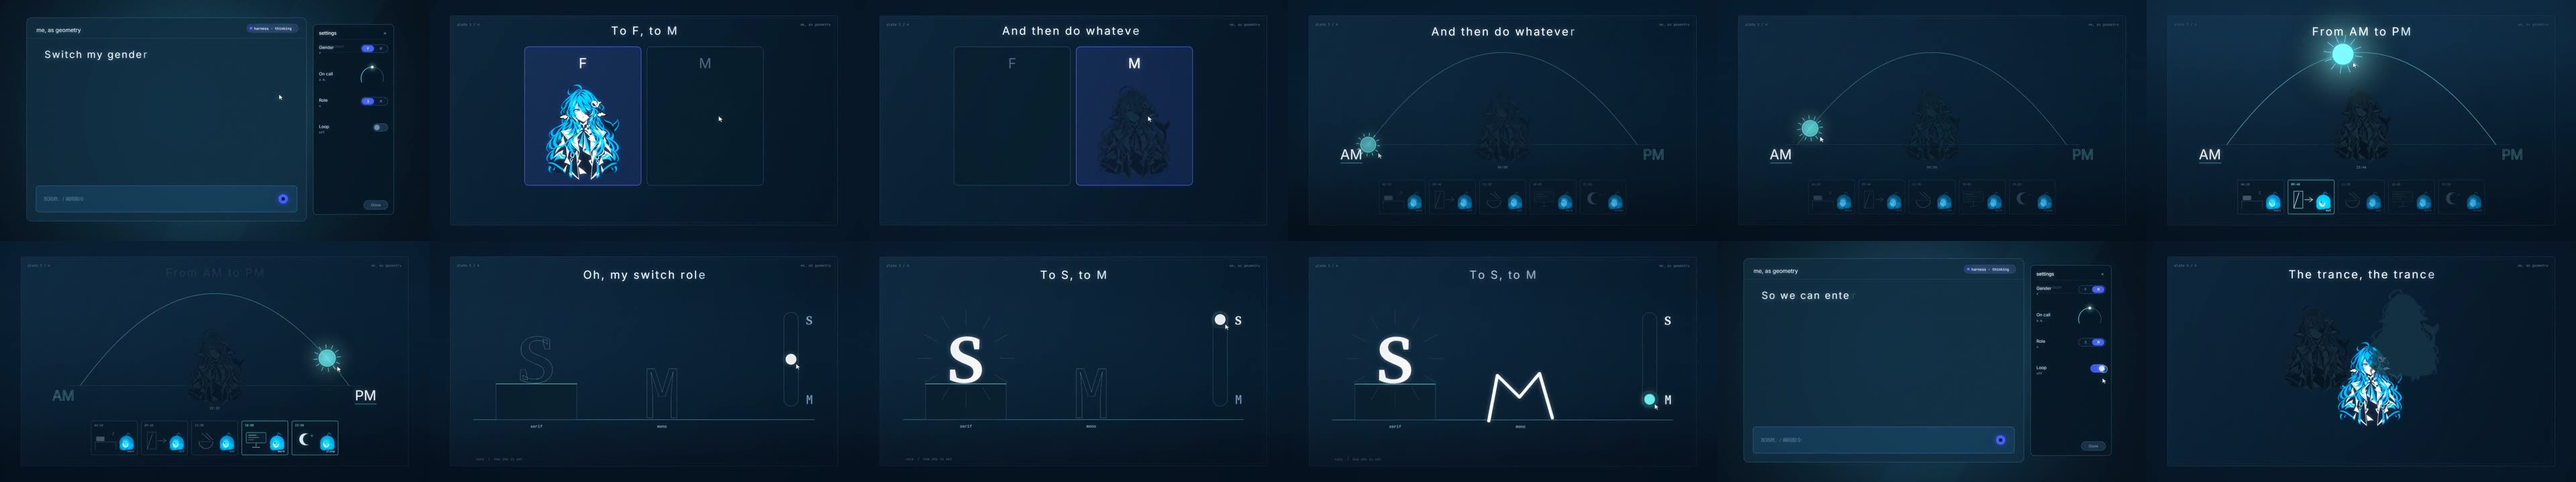
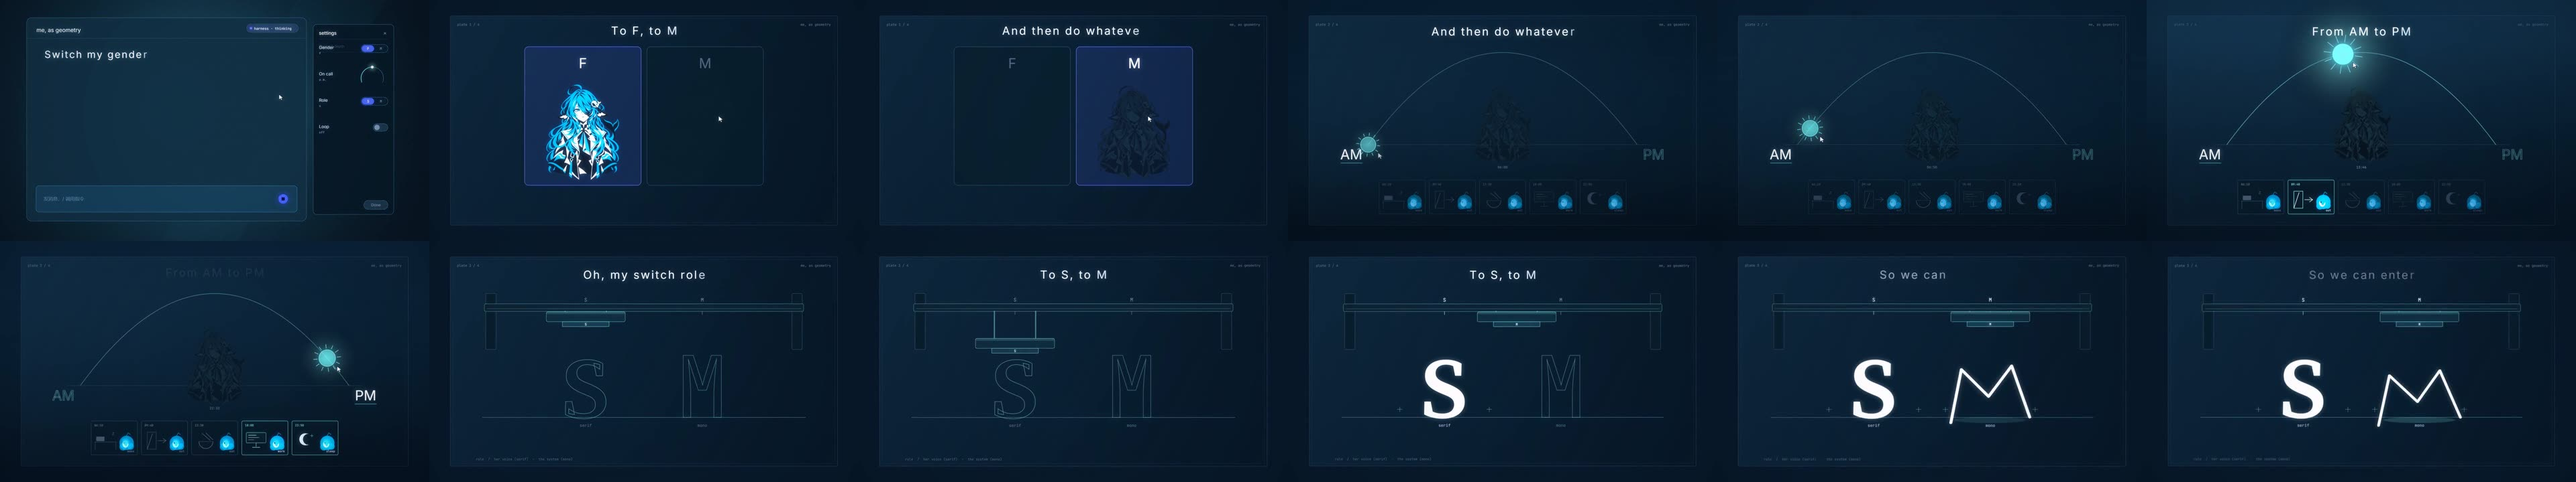
Section 7, Role: a press instead of a shelf
The first pass at this plate took the reference's own tabletop staging -- a heavy
letter on a plinth, a light letter on the floor, a vertical track between them -- and
dressed it in our inks. The user's note was the right one: the idea is right and the
picture is somebody else's. It also says something we do not mean. One letter up and
one letter down is a ranking; a Role row is a choice.

So both sorts now stand on ONE baseline at the SAME size, and what moves is the
machine above them: a portal frame, a beam with two stops, and a platen carrying the
slug that travels from stop to stop and comes down on the letter being chosen. The
travel is the switch, the descent is the setting.

- S is pressed on the line "To S" and printed heavy; M is pressed on "to M" and
  printed thin, and then it sinks into the paper it was printed on (a smear under
  it), which is the same joke as before without borrowing the reference's ground.
- Both hits keep the jolt, an ink ring and four registration crosses; the printed
  sort's outline fades out as the ink comes in, so the plate never shows two Of the
  same letter.
- Labels under the baseline say serif / mono, and the margin carries one line:
  "role / her voice (serif) - the system (mono)". The reference never had to say
  what S/M meant; we do, because ours has to be readable without the pun.

No plinth, no height difference, no vertical track: three hard edges against the
reference's form.

diff --git a/newProj_v1017/shots/s07_identity.js b/newProj_v1017/shots/s07_identity.js
@@ -429,160 +429,185 @@ function pre2Day(ctx, t, s) {
 }
 
 // ---------------------------------------------------------------------------
-// pre2-role — S and M are type roles, not letters with an attitude.
+// pre2-role — S and M are type roles, and the plate is a press, not a shelf.
 // ---------------------------------------------------------------------------
-// The reference's Role row reads "S / M" in the drawer, which looks like something
-// else entirely; its plate tells the truth -- a heavy letter standing on a plinth
-// and a light letter on the floor. In this film the same distinction already exists
-// and is used everywhere: serif is her voice, mono is the system's. So the plate
-// prints one specimen of each, labels them, and the switch chooses which voice she
-// is set in. The light one still goes limp when it is chosen, because that is the
-// joke and it costs one function.
+// The reference settles this row with a sculpture: a heavy letter on a plinth, a
+// light letter on the floor, a vertical track between them. That reads as a ranking
+// -- one voice up, one down -- and it is somebody else's picture of the idea. This
+// film already says what the row means everywhere else: serif is her voice, mono is
+// the system's. So both sorts stand on ONE line at the SAME size (a choice, not a
+// rank), and what moves is the press above them: a portal frame, a platen that
+// travels from stop to stop, and a slug that comes down on the letter being chosen.
+// The beat is unchanged -- S on "To S", M on "to M" -- and the light one still goes
+// soft, but it now sinks into the paper it was printed on instead of lying on a
+// floor.
 function pre2Role(ctx, t, s) {
   const sCue = Math.max(lineStart(62) + 0.4, s.at + 0.45);
   const mCue = sCue + 0.8;
 
   const hit = (cue) => (t >= cue ? Math.exp(-(t - cue) * 8.5) : 0);
-  const jolt = Math.sin((t - sCue) * 30) * 9 * hit(sCue)
-    + Math.sin((t - mCue) * 30) * 7 * hit(mCue)
-    + Math.sin((t - mCue - 0.3) * 44) * 4 * hit(mCue + 0.3);
-  const lift = 1 + 0.11 * hit(sCue) - 0.05 * hit(mCue);
+  const jolt = Math.sin((t - sCue) * 30) * 10 * hit(sCue)
+    + Math.sin((t - mCue) * 30) * 9 * hit(mCue);
 
   ctx.save();
   ctx.translate(0, jolt);
   plateBase(ctx, t, { index: 3 });
 
-  // the light step when the heavy letter lands
+  const BASE = 790;
+  const SCX = 700;
+  const MCX = 1220;
+  const BEAM = { x0: 300, x1: 1620, y: 300 };
+  const LETTER = 380;
+
+  // ---- the press frame: two posts and a beam. The machine is the subject of this
+  // plate, so it is drawn at the scale of the sheet and the letters are printed by it.
   layer(ctx, 1, () => {
-    const g = ctx.createLinearGradient(0, 200, 0, 1000);
-    g.addColorStop(0, `rgba(30,86,124,${(0.06 + 0.3 * (lift - 1) * 4).toFixed(3)})`);
-    g.addColorStop(1, "rgba(3,12,20,0.42)");
-    ctx.fillStyle = g;
-    ctx.fillRect(0, 0, 1920, 1080);
+    rect(ctx, BEAM.x0 - 46, 236, 46, 250, "rgba(10,30,44,0.92)", 4, "rgba(61,122,156,0.7)");
+    rect(ctx, BEAM.x1, 236, 46, 250, "rgba(10,30,44,0.92)", 4, "rgba(61,122,156,0.7)");
+    rect(ctx, BEAM.x0 - 52, BEAM.y - 18, BEAM.x1 - BEAM.x0 + 104, 34, "rgba(12,36,52,0.96)", 6, "rgba(131,233,230,0.6)");
+    // the beam is a rail: a lighter groove down its middle
+    stroke(ctx, [[BEAM.x0 - 40, BEAM.y + 4], [BEAM.x1 + 40, BEAM.y + 4]], "rgba(131,233,230,0.35)", 2, 0.9);
+    // the two stops, labelled with the two sorts
+    for (const [x, label, on] of [[SCX, "S", t >= sCue], [MCX, "M", t >= mCue]]) {
+      stroke(ctx, [[x, BEAM.y + 16], [x, BEAM.y + 30]], on ? GIFT : "rgba(120,146,170,0.8)", 2, 0.95);
+      type(ctx, label, x, BEAM.y - 28, 22, on ? "#eef6ff" : "rgba(159,184,210,0.75)", "MV Mono", "center");
+    }
   });
 
-  // ---- the two specimens
-  const GROUND = 800;
-  const PLINTH = { x: 300, y: 640, w: 360, h: GROUND - 640 };
-  const SCX = 480;
-  const MCX = 1040;
-
-  // the floor gives under the light letter when it lands
-  const limpK = clamp01(at(t, mCue + 0.16, mCue + 0.52));
-  const tau = t - mCue - 0.52;
-  const dip = tau > 0 ? 16 * Math.exp(-7 * tau) * Math.cos(16 * tau) : 0;
-  const groundAt = (x) => GROUND + dip * Math.exp(-(((x - MCX) / 260) ** 2));
-  const floor = [];
-  for (let x = 200; x <= 1720; x += 20) floor.push([x, groundAt(x)]);
-  stroke(ctx, floor, "rgba(131,233,230,0.55)", 2.2, 1);
-
-  // the plinth the heavy letter stands on
+  // ---- the platen: it travels between the stops (that travel is the switch) and
+  // comes down on the letter being chosen
+  const travelK = at(t, sCue + 0.24, mCue - 0.1);
+  const headX = SCX + (MCX - SCX) * travelK;
+  const punch = (cue) => {
+    const d = t - cue;
+    if (d < -0.2 || d > 0.42) return 0;
+    return d < 0 ? easeOut((d + 0.2) / 0.2) : 1 - easeOut(d / 0.42);
+  };
+  const pS = punch(sCue);
+  const pM = punch(mCue);
+  const drop = 132 * Math.max(pS, pM);
   layer(ctx, 1, () => {
-    rect(ctx, PLINTH.x, PLINTH.y, PLINTH.w, PLINTH.h, "rgba(10,32,48,0.92)", 3, "rgba(71,140,175,0.6)");
-    stroke(ctx, [[PLINTH.x, PLINTH.y], [PLINTH.x + PLINTH.w, PLINTH.y]], GIFT, 2.4, 0.9);
-    type(ctx, "serif", SCX, GROUND + 36, 18, "rgba(178,200,222,0.92)", "MV Mono", "center");
-    type(ctx, "mono", MCX, GROUND + 36, 18, "rgba(178,200,222,0.92)", "MV Mono", "center");
+    // two rods from the beam to the platen
+    // the platen hangs right under the beam at rest, so its descent is the motion
+    stroke(ctx, [[headX - 92, BEAM.y + 16], [headX - 92, BEAM.y + 20 + drop]], "rgba(131,233,230,0.55)", 5, 0.95);
+    stroke(ctx, [[headX + 92, BEAM.y + 16], [headX + 92, BEAM.y + 20 + drop]], "rgba(131,233,230,0.55)", 5, 0.95);
+    rect(ctx, headX - 176, BEAM.y + 18 + drop, 352, 44, "rgba(16,44,62,0.97)", 6, "rgba(131,233,230,0.75)");
+    rect(ctx, headX - 176, BEAM.y + 18 + drop, 352, 10, "rgba(131,233,230,0.18)", 3);
+    // the slug under it: the face that is about to be pressed
+    rect(ctx, headX - 104, BEAM.y + 62 + drop, 208, 22, "rgba(22,56,78,0.98)", 3, "rgba(131,233,230,0.85)");
+    type(ctx, travelK > 0.5 ? "M" : "S", headX, BEAM.y + 79 + drop, 15, "#f2f7fa", "MV Mono", "center");
   });
 
-  // ---- the heavy letter: printed on its syllable, with weight
-  if (t >= sCue - 0.02) {
-    const k = easeOut(at(t, sCue, sCue + 0.16));
-    const size = 300 * (1.14 - 0.14 * k);
-    layer(ctx, k, () => {
-      // the hit mark under it: a dozen short rays
-      const c = [SCX, PLINTH.y - size * 0.38];
-      for (let i = 0; i < 12; i++) {
-        const a = (i / 12) * Math.PI * 2;
-        stroke(ctx, [[c[0] + Math.cos(a) * size * 0.5, c[1] + Math.sin(a) * size * 0.5],
-          [c[0] + Math.cos(a) * size * 0.72, c[1] + Math.sin(a) * size * 0.72]], GIFT, 2, 0.55 * (1 - k) + 0.2);
-      }
-      type(ctx, "S", SCX, PLINTH.y - 8, size, "#f2f7fa", "MV Serif", "center");
-    });
-  } else {
-    // still an outline until it is sung: the same "not set yet" device as AM / PM
-    ctx.font = `600 300px "MV Serif"`;
+  // ---- the two sorts, on one line
+  const inkS = clamp01((t - sCue) / 0.1);
+  const inkM = clamp01((t - mCue) / 0.1);
+
+  stroke(ctx, [[240, BASE], [1680, BASE]], "rgba(131,233,230,0.45)", 2, 1);
+
+  if (inkS < 0.999) {
+    ctx.save();
+    ctx.globalAlpha = 1 - inkS;
+    ctx.font = `600 ${LETTER}px "MV Serif"`;
     ctx.textAlign = "center";
     ctx.textBaseline = "alphabetic";
-    ctx.strokeStyle = "rgba(131,233,230,0.55)";
-    ctx.lineWidth = 1.8;
-    ctx.strokeText("S", SCX, PLINTH.y - 8);
+    ctx.strokeStyle = "rgba(131,233,230,0.58)";
+    ctx.lineWidth = 2;
+    ctx.strokeText("S", SCX, BASE);
+    ctx.restore();
+  }
+  if (inkS > 0.001) {
+    layer(ctx, inkS, () => {
+      // the impression comes down a touch oversized and settles onto the line
+      type(ctx, "S", SCX, BASE, LETTER * (1.05 - 0.05 * easeOut(inkS)), "#f2f7fa", "MV Serif", "center");
+    });
   }
 
-  // ---- the light letter: an outline until it is sung, then it sinks and goes soft
-  const drawM = (size, soft, colour, width) => {
-    const half = size * 0.44;
-    const top = -size * 0.78;
-    const spread = size * 0.07 * soft;
-    const sag = size * 0.16 * soft;
-    const pts = [
-      [-half - spread, 0],
-      [-half * 0.7, top + sag * 0.5],
-      [0, top * 0.55 + sag],
-      [half * 0.7, top + sag * 0.5],
-      [half + spread, 0],
-    ];
-    stroke(ctx, pts, colour, width, 1);
-  };
-  const mBase = groundAt(MCX);
-  const printed = at(t, mCue, mCue + 0.14);
-  if (printed <= 0.001) {
-    ctx.font = `400 300px "MV Mono"`;
+  // M: the mono sort. An outline until its beat; then it prints thin -- and then it
+  // sinks into the paper, which is the whole joke of setting her to M.
+  const limpK = clamp01(at(t, mCue + 0.22, mCue + 0.66));
+  const sink = 10 * limpK;
+  if (inkM < 0.999) {
+    ctx.save();
+    ctx.globalAlpha = 1 - inkM;
+    ctx.font = `400 ${LETTER}px "MV Mono"`;
     ctx.textAlign = "center";
     ctx.textBaseline = "alphabetic";
-    ctx.strokeStyle = "rgba(131,233,230,0.5)";
-    ctx.lineWidth = 1.6;
-    ctx.strokeText("M", MCX, mBase - 8);
-  } else {
-    // the pop, then the slump: the whole letter tips and sinks instead of bending
-    // -- a bent M turns into a W, which is a different letter and a worse joke
-    const pop = 1.1 - 0.1 * easeOut(printed);
-    layer(ctx, printed, () => {
+    ctx.strokeStyle = "rgba(131,233,230,0.52)";
+    ctx.lineWidth = 1.8;
+    ctx.strokeText("M", MCX, BASE);
+    ctx.restore();
+  }
+  if (inkM > 0.001) {
+    const drawM = (size, soft, colour, width) => {
+      const half = size * 0.44;
+      const top = -size * 0.78;
+      const spread = size * 0.06 * soft;
+      const sag = size * 0.14 * soft;
+      stroke(ctx, [
+        [-half - spread, 0],
+        [-half * 0.7, top + sag * 0.5],
+        [0, top * 0.55 + sag],
+        [half * 0.7, top + sag * 0.5],
+        [half + spread, 0],
+      ], colour, width, 1);
+    };
+    layer(ctx, inkM, () => {
       ctx.save();
-      // the tip is compensated so one foot never leaves the floor: a letter that
-      // floats while it falls reads as a pasted sticker
-      const ang = -0.13 * limpK;
-      const half = 300 * pop * 0.44;
-      ctx.translate(MCX, mBase - 8 + half * Math.abs(Math.sin(ang)));
+      // the tip is compensated so one foot never leaves the paper: a letter that
+      // floats while it sinks reads as a sticker, not as ink
+      const ang = -0.1 * limpK;
+      const half = LETTER * 0.44;
+      ctx.translate(MCX, BASE - 8 + sink + half * Math.abs(Math.sin(ang)));
       ctx.rotate(ang);
-      ctx.scale(1 + 0.05 * limpK, 1 - 0.28 * limpK);
-      drawM(300 * pop, limpK, "#f2f7fa", 15 - 3 * limpK);
+      ctx.scale(1 + 0.03 * limpK, 1 - 0.14 * limpK);
+      drawM(LETTER * 0.94, limpK, "#f2f7fa", 15 - 3 * limpK);
       ctx.restore();
-      // its ink runs a little where it landed
-      if (limpK > 0.6) {
-        layer(ctx, ((limpK - 0.6) / 0.4) * 0.5, () => {
-          stroke(ctx, [[MCX - 150, mBase + 6], [MCX + 150, mBase + 6]], "rgba(131,233,230,0.6)", 2, 0.7);
+      // the paper takes the impression: a soft smear under it, not a floor dip
+      if (limpK > 0.2) {
+        layer(ctx, ((limpK - 0.2) / 0.8) * 0.4, () => {
+          ctx.beginPath();
+          ctx.ellipse(MCX, BASE + 12, 160, 13, 0, 0, Math.PI * 2);
+          ctx.fillStyle = "rgba(131,233,230,0.5)";
+          ctx.fill();
         });
       }
     });
   }
 
-  // ---- the switch: S at the top, M at the foot, and the knob travels between them
-  const TR = { x: 1584, y: 320, w: 64, h: 420 };
-  const yTop = TR.y + TR.w / 2;
-  const yBot = TR.y + TR.h - TR.w / 2;
-  const yMid = (yTop + yBot) / 2;
-  // The pointer grabs the knob half a second before the first letter, so the push
-  // has a beginning; a knob that jumps at the syllable reads as a typo, not a hand.
-  const grab = sCue - 0.76;
-  const pullK = easeOut(at(t, grab, sCue - 0.02));
-  const downK = clamp01(at(t, mCue - 0.14, mCue + 0.04));
-  const knobY = yMid + (yTop - yMid) * pullK + (yBot - yTop) * downK;
-  layer(ctx, 1, () => {
-    rect(ctx, TR.x, TR.y, TR.w, TR.h, "rgba(9,32,48,0.95)", TR.w / 2, "rgba(61,122,156,0.8)");
-    type(ctx, "S", TR.x + TR.w + 34, yTop + 22, 54, t >= sCue ? "#ffffff" : DIM, "MV Serif");
-    type(ctx, "M", TR.x + TR.w + 34, yBot + 22, 54, t >= mCue ? "#ffffff" : DIM, "MV Mono");
-    disc(ctx, TR.x + TR.w / 2, knobY, 24, t >= mCue ? "rgba(131,233,230,0.95)" : "#f2f7fa", 1);
-    if (t >= mCue) halo(ctx, TR.x + TR.w / 2, knobY, 70, 0.35, GIFT);
-  });
-  cursorArrow(ctx, TR.x + TR.w / 2 + 22, knobY + 20, 1.5, 1);
-  clickRipple(ctx, TR.x + TR.w / 2, yTop, t, sCue, GIFT);
-  clickRipple(ctx, TR.x + TR.w / 2, yBot, t, mCue, GIFT);
+  // ---- the hits: a ring of ink and four registration crosses per impression
+  const ringAt = (x, cue) => {
+    const k = clamp01((t - cue) / 0.44);
+    if (t < cue || k >= 1) return;
+    layer(ctx, (1 - k) * 0.6, () => {
+      ctx.beginPath();
+      ctx.arc(x, BASE - 160, 80 + 220 * k, 0, Math.PI * 2);
+      ctx.strokeStyle = GIFT;
+      ctx.lineWidth = 2.6 * (1 - k) + 0.6;
+      ctx.stroke();
+    });
+  };
+  ringAt(SCX, sCue);
+  ringAt(MCX, mCue);
+  const cross = (x, y, a) => {
+    if (a <= 0.01) return;
+    layer(ctx, a * 0.65, () => {
+      stroke(ctx, [[x - 11, y], [x + 11, y]], GIFT, 1.6, 0.9);
+      stroke(ctx, [[x, y - 11], [x, y + 11]], GIFT, 1.6, 0.9);
+    });
+  };
+  cross(SCX - 200, BASE - 36, inkS);
+  cross(SCX + 200, BASE - 36, inkS);
+  cross(MCX - 200, BASE - 36, inkM);
+  cross(MCX + 200, BASE - 36, inkM);
 
-  // the setting, said in the film's own margin voice
-  type(ctx, "role  /  how she is set", 210, 982, 15, "rgba(139,164,194,0.55)", "MV Mono");
+  type(ctx, "serif", SCX, BASE + 42, 18, inkS > 0.5 ? "rgba(178,200,222,0.95)" : "rgba(139,164,194,0.6)", "MV Mono", "center");
+  type(ctx, "mono", MCX, BASE + 42, 18, inkM > 0.5 ? "rgba(178,200,222,0.95)" : "rgba(139,164,194,0.6)", "MV Mono", "center");
+
+  // the setting, said plainly in the film's margin voice: this row is about voice
+  type(ctx, "role  /  her voice (serif)  ·  the system (mono)", 210, 982, 15, "rgba(139,164,194,0.55)", "MV Mono");
 
   ctx.restore();
-  return { phase: "role", limp: Number(limpK.toFixed(2)) };
+  return { phase: "role", headX: Math.round(headX), limp: Number(limpK.toFixed(2)) };
 }
 
 // ---------------------------------------------------------------------------

diff --git a/newProj_v1017/review/index.html b/newProj_v1017/review/index.html
@@ -162,7 +162,7 @@
     <b>这一段改的不再是设置，是她本人。</b>
     <br>① <b>Gender</b>：控制放大到整张纸，左 F 右 M，<b>她站在被选中的那一格里</b>；切到 M 时她换成一张更冷、更暗的印法——我们手上她只有女版，所以现在"换性别"表现成<b>换印法</b>而不是换一个人。
     <br>② <b>On call</b>（这一轮重做）：控制是一道横跨纸面的弧，<b>旋钮就是太阳</b>。太阳按"From AM to PM"这句真唱的时间从左走到右，整张纸的亮度跟着它走；<b>弧下面一排五格</b>是这一天里她做的五件事——起床 / 出门 / 吃饭 / 工作 / 睡觉，太阳走到哪一格，那一格就亮，其余暗着。夜里纸会暗下去，最后只剩她一个暗印。
-    <br>③ <b>Role</b>（这一轮重做）：参考片里的 S / M 其实是<b>字体角色的双关</b>——一边是压在台座上的重字母 S，一边是躺在地上的轻字母 M。我们把它讲明白：<b>S = serif（她自己的声音），M = mono（系统的声音）</b>，两个字母下面直接标着 serif / mono；开关推上去 S 被印实，拉下来 M 被印实、随后<b>软下去、整张纸沉一下再弹回</b>。
+    <br>③ <b>Role</b>（这一轮重做两次）：参考片里的 S / M 其实是<b>字体角色的双关</b>——但它是用"重字母站在台座上、轻字母躺在地上、中间一根竖开关"来画的，那种"一个高一个低"其实是在说尊卑，而且形式太像。我们改成：<b>两个字母站在同一条基线上、一样大</b>（这是"选择"，不是"排序"），画面主体是一台<b>压印机</b>——横梁上有两个止点，压印头带着字模从左滑到右，落到哪个字母上就把它印实。S = <b>serif（她自己的声音）</b>，M = <b>mono（系统的声音）</b>，字母下面直接标 serif / mono；M 被印上去之后会<b>陷进纸里、软下去</b>（纸面留一道墨渍），S 始终立着。
     <br>④ <b>Loop</b> 与<b>恍惚</b>：两拍之内打开 Loop、按下 Done；鼓点停了之后她的三种样子各占一张版，绕着彼此转、每唱到这个词就近一步，最后对齐成一张。等男版 / 猫娘版的图出来，这里就换成三个真正的"样子"。
   </div>
 

diff --git a/newProj_v1017/HANDOFF.md b/newProj_v1017/HANDOFF.md
@@ -188,14 +188,17 @@ ffmpeg：`G:\CODE\worldExecuteMe\world-execute-me-lyric-mv\node_modules\ffmpeg-s
 
 用户看完第 7 段给了四条意见，其中两条这一轮已经落地：
 
-1. **pre2-day（On call）重做**：太阳不再只是在弧上来回拉，而是按 `lineFrom(60)`（"From AM to PM" 真正开唱的时间）
+1. **pre2-day（On call）重做**：太阳不再只是在弧上来回拉，而是按 `lineStart(60)`（"From AM to PM" 真正开唱的时间）
    从左走到右，整张纸的明暗跟着它；**弧下面加了五格"这一天"**——wake / out / eat / work / sleep，
    每格一个扁平图形 + 一个 32px 的 `miniHer`（用形状画的小头像，不是缩图，避免 8 倍降采样），
    太阳走到哪格那格亮。夜里纸暗下去，只留她一个暗印。
-2. **pre2-role（Role）重做**：参考片的 S / M 是**字体角色的双关**（重字母站在台座上、轻字母躺在地上）。
-   我们把它讲明白：**S = serif（她的声音）/ M = mono（系统的声音）**，两个字母下面直接标
-   `serif` / `mono`；S 按"To S"那一拍印实（带放射线 + 纸面一震），M 按"to M"印实后
-   **软下去**（整字倾斜 + 竖向压扁 + 地面下陷一点再弹回），开关的旋钮会先被指针抓住再推上去。
+2. **pre2-role（Role）重做两次**：参考片的 S / M 是**字体角色的双关**（重字母站在台座上、轻字母躺在地上）。
+   第一版照这个形式做，被用户指出"太像参考片"。现在改成：**两个字母站在同一条基线上、一样大**
+   （选择而不是排序），画面主体是一台**压印机**——门式机架、横梁两个止点、压印头带字模在两止点之间
+   滑动（这个滑动就是开关），落到哪个字母上就把哪个印实；**S = serif（她的声音）/ M = mono（系统的声音）**，
+   字母下面标 `serif` / `mono`，左下还有一行 `role / her voice (serif) · the system (mono)`。
+   M 印上后**陷进纸里、软下去**（纸面留一道墨渍），S 始终立着。两次落版各有一次震纸 + 墨圈 + 四角套准十字。
+   与参考片不同的三条硬边界：**没有台座**、**没有高低差**、**没有竖向开关**。
 
 还没做的两条（都要等新素材）：
 - **男版 / 猫娘版形象**：提示词已写到 `docs/character-prompts-v1.md`。出图后：
@@ -209,7 +212,9 @@ ffmpeg：`G:\CODE\worldExecuteMe\world-execute-me-lyric-mv\node_modules\ffmpeg-s
 
 ---
 
-## 8. 下一段：第 9 段「越界、第一个错误、扩散」9 镜（125.62–148.01，22.4 秒）全片第一次出现**红色**（`C.danger = "#e75d69"`），只许用在越界/故障边上，**不许整屏铺红**。
+## 8. 下一段：第 9 段「越界、第一个错误、扩散」9 镜（125.62–148.01，22.4 秒）
+
+全片第一次出现**红色**（`C.danger = "#e75d69"`），只许用在越界/故障边上，**不许整屏铺红**。
 
 参考片设计（`claude-version-study/data/shots.json` 的 section 9）：
 
